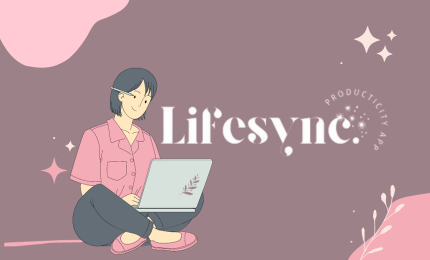
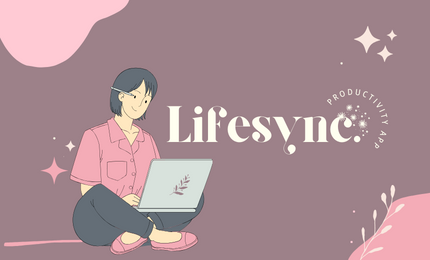
home page

diff --git a/screens/Home.js b/screens/Home.js
@@ -4,26 +4,30 @@ import Day from "../components/Day";
 import ChallengeCard from "../components/ChallengeCard";
 import ProjectCard from "../components/ProjectCard";
 import Colors from "../constants/Colors";
+import { useUser } from "@clerk/clerk-expo";
+import { useNavigation } from "@react-navigation/native";
+import ScheduleProgress from "../components/ScheduleProgress";
+import DiaryProgress from "../components/DiaryProgress";
+import DietProgress from "../components/DietProgress";
+import ExpenseProgress from "../components/ExpenseProgress";
 
-export default class Home extends Component {
-  state = {
-    activestate: "rgba(255, 255, 255, 0.291821)",
-  };
-  change = () => {
-    return this.props.navigation.navigate("Challenge");
-  };
-  render() {
+export default function Home() {
+  const {user} = useUser();
+  const navigation = useNavigation();
     return (
       <View style={styles.homeContainer}>
         <View style={styles.firstContainer}>
           <View style={styles.firstSection}></View>
           <View style={styles.secondSection}>
-            <Text style={styles.name}>Hi.. John</Text>
+            <View style={styles.userSection}>
+              <Text style={styles.name}>Hi {user.fullName}</Text>
+              <Image style={styles.pfp} source={{uri:user?.imageUrl}}/>
+            </View>
             <Text style={styles.subtitle}>Here is your progress</Text>
           </View>
           <View style={styles.thirdSection}>
             <ImageBackground
-              source={require("../assets/chart.png")}
+              source={require("../assets/lifesync.png")}
               style={{
                 width: "100%",
                 height: 250,
@@ -35,7 +39,7 @@ export default class Home extends Component {
             <Day dayname="Mon" />
             <Day dayname="Tue" />
             <Day dayname="Wed" />
-            <Day dayname="Thu" active={this.state.activestate} />
+            <Day dayname="Thu" />
             <Day dayname="Fri" />
             <Day dayname="Sat" />
           </View>
@@ -43,28 +47,19 @@ export default class Home extends Component {
         <View style={styles.secondContainer}>
           <View style={styles.line}></View>
           <View style={styles.progress}>
-            <Text style={[styles.textone]}>My Progress</Text>
-          </View>
-          <View style={styles.cards}>
-            <ChallengeCard
-              move="bounceInLeft"
-              title="Challenges"
-              subtitle="7 out of 10 challenges"
-              completed={`${(7 / 10) * 100}%`}
-              screenchange={() => this.change()}
-            />
-            <ProjectCard
-              move="bounceInRight"
-              title="Projects"
-              subtitle="2 out of 4 projects"
-              completed={`${(2 / 4) * 100}%`}
-            />
+            <Text style={styles.textone}>My Progress</Text>
+            <View style={styles.row}>
+              <ScheduleProgress />  
+              <DiaryProgress />
+            </View>
+            <View style={styles.row}>
+              <DietProgress />
+              <ExpenseProgress />
+            </View>
           </View>
         </View>
       </View>
-    );
-  }
-}
+)}
 
 const styles = StyleSheet.create({
   homeContainer: {
@@ -72,7 +67,7 @@ const styles = StyleSheet.create({
     backgroundColor: Colors.secondary,
   },
   firstContainer: {
-    flex: 1.5,
+    flex: 1,
   },
   firstSection: {
     flex: 1,
@@ -80,6 +75,11 @@ const styles = StyleSheet.create({
   secondSection: {
     flex: 0.8,
     marginLeft: 35,
+  },
+  userSection: {
+    display:'flex',
+    flexDirection:'row',
+    justifyContent:'space-between'
   },
   thirdSection: {
     flex: 2.5,
@@ -91,16 +91,22 @@ const styles = StyleSheet.create({
     flexDirection: "row",
   },
   secondContainer: {
-    flex: 1,
+    flex: 1.5,
     backgroundColor: "#f6f6f6",
     borderTopRightRadius: 50,
     borderTopLeftRadius: 50,
   },
   name: {
-    fontSize: 38,
+    fontSize: 36,
     color: "#f6f6f6",
     fontWeight: "bold",
     letterSpacing: -0.5,
+  },
+  pfp: {
+    width:50, 
+    height:50, 
+    borderRadius:99,
+    marginRight:25
   },
   subtitle: {
     fontSize: 20,
@@ -115,12 +121,14 @@ const styles = StyleSheet.create({
     left: "40%",
   },
   progress: {
-    left: 50,
+    paddingHorizontal:40,
+    paddingVertical:10
   },
   textone: {
     fontSize: 20,
     color: "#1b1b2f",
     letterSpacing: -0.5,
+    marginBottom:15
   },
   cards: {
     flex: 1,
@@ -128,4 +136,10 @@ const styles = StyleSheet.create({
     marginTop: 10,
     marginHorizontal: 30,
   },
+  row: {
+    display:'flex',
+    flexDirection:'row',
+    justifyContent:'space-between',
+    marginBottom:15
+  }
 });

diff --git a/components/DietProgress.js b/components/DietProgress.js
@@ -1,0 +1,78 @@
+import { View, Text, StyleSheet } from 'react-native'
+import React, { useState } from 'react'
+import Colors from '../constants/Colors'
+import { db } from '../firebase'
+import { collection, getDocs, where, query, orderBy } from "firebase/firestore";
+import { useUser } from '@clerk/clerk-expo';
+import { useFocusEffect } from '@react-navigation/native';
+
+export default function DietProgress() {
+  const [mealList, setMealList] = useState([]);
+  const {user} = useUser();
+  const email = user.primaryEmailAddress.emailAddress;
+  const intake = mealList.reduce((sum, item) => sum + item.calories, 0); 
+    const today = new Date();
+    today.setHours(0, 0, 0, 0);
+
+    const endOfDay = new Date(today);
+    endOfDay.setHours(23, 59, 59, 999);
+
+  useFocusEffect(()=>{
+    getMealList();
+  });
+
+  const getMealList = async () => {
+    try {
+      const q = query(collection(db, "Meal"), 
+      where("user", "==", email),
+      where("time", ">=", today),
+      where("time", "<=", endOfDay),
+      orderBy("time", "desc"));
+      const querySnapshot = await getDocs(q);
+  
+      const data = querySnapshot.docs.map((doc) => ({ ...doc.data(), id: doc.id }));
+  
+      setMealList(data);
+    } catch (error) {
+      console.error('Error fetching data from Firestore:', error);
+    }
+  };
+
+  return (
+    <View style={styles.container}>
+      <Text style={styles.cal}>{intake}</Text>
+      <Text style={styles.kcal}>kcal</Text>      
+      <Text style={styles.title}>Diet</Text>
+    </View>
+  )
+}
+
+const styles = StyleSheet.create({
+    container: {
+      backgroundColor:Colors.secondary, 
+      width:150, 
+      height:150, 
+      borderRadius:20, 
+      justifyContent:'center'
+    },
+    cal: {
+      fontSize:55,
+      fontWeight:'bold',
+      textAlign:'center',
+      color:Colors.white,
+      marginTop:10
+    },
+    kcal: {
+      fontSize:22, 
+      fontWeight:'bold', 
+      textAlign:'center',
+      marginTop:-10,
+      marginBottom:10
+    },
+    title: {
+      fontSize:16, 
+      fontWeight:'800', 
+      textAlign:'center',
+      color:Colors.tertiary
+    }
+})

diff --git a/screens/Diet.js b/screens/Diet.js
@@ -84,11 +84,11 @@ export default function Diet() {
           borderWidth={0} thickness={25} strokeCap='round'
           showsText={true} formatText={(intake)=>(
           <Text style={{ textAlign: 'center' }}>
-            <Text style={{ color: Colors.tertiary, fontSize: 46 }}>
+            <Text style={{ color: Colors.tertiary, fontSize: 46, textAlign:'center' }}>
               {Math.ceil(intake*totalIntake)}
             </Text>
             {"\n"}
-            <Text style={{ color: 'black', fontSize: 24 }}>
+            <Text style={{ color: 'black', fontSize: 24, textAlign:'center'}}>
               kcal
             </Text>
           </Text>

diff --git a/components/ScheduleProgress.js b/components/ScheduleProgress.js
@@ -1,0 +1,27 @@
+import { View, Text, StyleSheet } from 'react-native'
+import React from 'react'
+import Colors from '../constants/Colors'
+
+export default function ScheduleProgress() {
+  return (
+    <View style={styles.container}>
+        <Text style={styles.title}>Schedule</Text>
+    </View>
+  )
+}
+
+const styles = StyleSheet.create({
+    container: {
+        backgroundColor:Colors.primary, 
+        width:150, 
+        height:150, 
+        borderRadius:20, 
+        justifyContent:'center'
+    },
+    title: {
+      fontSize:16, 
+      fontWeight:'800', 
+      textAlign:'center',
+      color:Colors.tertiary
+    }
+})

diff --git a/components/ExpenseProgress.js b/components/ExpenseProgress.js
@@ -1,0 +1,27 @@
+import { View, Text, StyleSheet } from 'react-native'
+import React from 'react'
+import Colors from '../constants/Colors'
+
+export default function ExpenseProgress() {
+  return (
+    <View style={styles.container}>
+        <Text style={styles.title}>Expense</Text>
+    </View>
+  )
+}
+
+const styles = StyleSheet.create({
+    container: {
+        backgroundColor:Colors.primary, 
+        width:150, 
+        height:150, 
+        borderRadius:20, 
+        justifyContent:'center'
+    },
+    title: {
+      fontSize:16, 
+      fontWeight:'800', 
+      textAlign:'center',
+      color:Colors.tertiary
+    }
+})

diff --git a/components/DiaryProgress.js b/components/DiaryProgress.js
@@ -1,0 +1,27 @@
+import { View, Text, StyleSheet } from 'react-native'
+import React from 'react'
+import Colors from '../constants/Colors'
+
+export default function DiaryProgress() {
+  return (
+    <View style={styles.container}>
+        <Text style={styles.title}>Diary</Text>
+    </View>
+  )
+}
+
+const styles = StyleSheet.create({
+    container: {
+        backgroundColor:Colors.secondary, 
+        width:150, 
+        height:150, 
+        borderRadius:20, 
+        justifyContent:'center'
+    },
+    title: {
+      fontSize:16, 
+      fontWeight:'800', 
+      textAlign:'center',
+      color:Colors.tertiary
+    }
+})

diff --git a/navigation/Tabs.js b/navigation/Tabs.js
@@ -219,7 +219,7 @@ const Tabs = () => {
                 options={{
                     tabBarIcon: ({ focused }) => (
                         <Image
-                            source={icons.workout}
+                            source={icons.expense}
                             resizeMode="contain"
                             style={{
                                 width: 25,

diff --git a/constants/icons.js b/constants/icons.js
@@ -3,11 +3,13 @@ const schedule = require("../assets/schedule.png");
 const diary = require("../assets/diary.png");
 const diet = require("../assets/diet.png");
 const workout = require("../assets/workout.png");
+const expense = require("../assets/money-bag.png")
 
 export default {
     home,
     schedule,
     diary,
     diet,
-    workout
+    workout,
+    expense
 }
